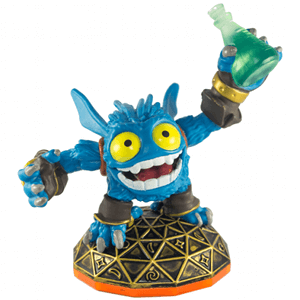
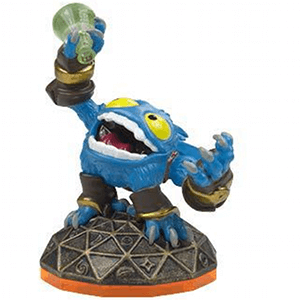
updatew

diff --git a/index.html b/index.html
@@ -268,20 +268,20 @@ const figures = [
 {game:"SG",type:"Core",  elem:"Fire",   name:"Eruptor",          variant:"Series 2",    img:"imgs/2013/02/Eruptor2.png"},
 {game:"SG",type:"Core",  elem:"Fire",   name:"Hot Dog",          variant:null,          img:"imgs/2013/02/HotDog.png"},
 {game:"SG",type:"Core",  elem:"Fire",   name:"Hot Dog",          variant:"Molten",      img:"imgs/2013/03/MoltenHotDog.png"},
-{game:"SG",type:"Core",  elem:"Water",  name:"Gill Grunt",       variant:"Series 2",    img:"imgs/2013/02/GillGrunt2.png"},
+{game:"SG",type:"Core",  elem:"Water",  name:"Gill Grunt",       variant:"Series 2",    img:"imgs/2013/02/GillGrunt1.png"},
 {game:"SG",type:"Core",  elem:"Water",  name:"Chill",            variant:null,          img:"imgs/2013/02/Chill.png"},
 {game:"SG",type:"Core",  elem:"Water",  name:"Chill",            variant:"Legendary",   img:"imgs/2013/02/LegendaryChill.png"},
 {game:"SG",type:"Core",  elem:"Earth",  name:"Bash",             variant:"Series 2",    img:"imgs/2013/02/Bash2.png"},
 {game:"SG",type:"Core",  elem:"Earth",  name:"Flashwing",        variant:null,          img:"imgs/2013/02/Flashwing.png"},
 {game:"SG",type:"Core",  elem:"Earth",  name:"Flashwing",        variant:"Jade",        img:"imgs/2013/03/JadeFlashwing.png"},
-{game:"SG",type:"Core",  elem:"Air",    name:"Lightning Rod",    variant:"Series 2",    img:"imgs/2013/02/LightningRod2-s2.png"},
+{game:"SG",type:"Core",  elem:"Air",    name:"Lightning Rod",    variant:"Series 2",    img:"imgs/2013/02/LightningRod1.png"},
 {game:"SG",type:"Core",  elem:"Air",    name:"Jet-Vac",          variant:null,          img:"imgs/2013/02/JetVac.png"},
 {game:"SG",type:"Core",  elem:"Air",    name:"Jet-Vac",          variant:"Legendary",   img:"imgs/2013/03/LegendaryJetVac.png"},
-{game:"SG",type:"Core",  elem:"Life",   name:"Stealth Elf",      variant:"Series 2",    img:"imgs/2013/02/StealthElf2.png"},
+{game:"SG",type:"Core",  elem:"Life",   name:"Stealth Elf",      variant:"Series 2",    img:"imgs/2013/02/StealthElf1.png"},
 {game:"SG",type:"Core",  elem:"Life",   name:"Shroomboom",       variant:null,          img:"imgs/2013/02/Shroomboom.png"},
-{game:"SG",type:"Core",  elem:"Undead", name:"Chop Chop",        variant:"Series 2",    img:"imgs/2013/02/ChopChop2.png"},
-{game:"SG",type:"Core",  elem:"Undead", name:"Ghost Roaster",    variant:"Series 2",    img:"imgs/2013/02/GhostRoaster2.png"},
-{game:"SG",type:"Core",  elem:"Tech",   name:"Trigger Happy",    variant:"Series 2",    img:"imgs/2013/02/TriggerHappy2-s2.png"},
+{game:"SG",type:"Core",  elem:"Undead", name:"Chop Chop",        variant:"Series 2",    img:"imgs/2014/02/ChopChop.png"},
+{game:"SG",type:"Core",  elem:"Undead", name:"Ghost Roaster",    variant:"Series 2",    img:"imgs/2013/02/GhostRoaster.png"},
+{game:"SG",type:"Core",  elem:"Tech",   name:"Trigger Happy",    variant:"Series 2",    img:"imgs/2013/02/TriggerHappy1.png"},
 {game:"SG",type:"Core",  elem:"Tech",   name:"Sprocket",         variant:null,          img:"imgs/2013/02/Sprocket.png"},
 
 // Giants LightCore
@@ -343,10 +343,10 @@ const figures = [
 
 // SSF S2 reprints (key ones)
 {game:"SSF",type:"Core",  elem:"Magic",  name:"Spyro",           variant:"Series 3",    img:"imgs/2013/02/Spyro2.png"},
-{game:"SSF",type:"Core",  elem:"Fire",   name:"Eruptor",         variant:"Series 3",    img:"imgs/2013/10/Eruptor3.png"},
-{game:"SSF",type:"Core",  elem:"Tech",   name:"Trigger Happy",   variant:"Series 3",    img:"imgs/2013/10/TriggerHappy3.png"},
+{game:"SSF",type:"Core",  elem:"Fire",   name:"Eruptor",         variant:"Series 3",    img:"imgs/2013/02/EruptorLightCore.png"},
+{game:"SSF",type:"Core",  elem:"Tech",   name:"Trigger Happy",   variant:"Series 3",    img:"imgs/2013/02/TriggerHappy1.png"},
 {game:"SSF",type:"Core",  elem:"Life",   name:"Stealth Elf",     variant:"Series 3",    img:"imgs/2013/10/StealthElf3.png"},
-{game:"SSF",type:"Core",  elem:"Undead", name:"Chop Chop",       variant:"Series 3",    img:"imgs/2013/10/ChopChop3.png"},
+{game:"SSF",type:"Core",  elem:"Undead", name:"Chop Chop",       variant:"Series 3",    img:"imgs/2014/02/ChopChop.png"},
 
 // SSF LightCore
 {game:"SSF",type:"LightCore",elem:"Magic",  name:"Pop Fizz",     variant:null,          img:"imgs/2013/02/LightCorePopFizz.png"},
@@ -430,24 +430,24 @@ const figures = [
 {game:"TT",type:"Mini",   elem:"Tech",   name:"Drobit",            variant:null,         img:"imgs/2014/08/Drobit.png"},
 
 // Traps
-{game:"TT",type:"Trap",   elem:"Magic",  name:"Spell Slammer",     variant:null,         img:"imgs/2013/02/TrapMagic.png"},
-{game:"TT",type:"Trap",   elem:"Magic",  name:"Arcane Hourglass",  variant:null,         img:"imgs/2013/02/TrapMagic2.png"},
+{game:"TT",type:"Trap",   elem:"Magic",  name:"Spell Slammer",     variant:null,         img:"imgs/2014/09/MagicRocketTrap.png"},
+{game:"TT",type:"Trap",   elem:"Magic",  name:"Arcane Hourglass",  variant:null,         img:"imgs/2014/10/MagicHourglassTrap.png"},
 {game:"TT",type:"Trap",   elem:"Fire",   name:"Fire Flier",        variant:null,         img:"imgs/2014/08/TrapFire.png"},
 {game:"TT",type:"Trap",   elem:"Fire",   name:"Searing Spinner",   variant:null,         img:"imgs/2013/02/TrapFire2.png"},
-{game:"TT",type:"Trap",   elem:"Water",  name:"Tidal Tiki",        variant:null,         img:"imgs/2014/08/TrapWater.png"},
-{game:"TT",type:"Trap",   elem:"Water",  name:"Wet Walter",        variant:null,         img:"imgs/2014/08/TrapWater2.png"},
-{game:"TT",type:"Trap",   elem:"Earth",  name:"Stone Prison",      variant:null,         img:"imgs/2013/02/TrapEarth.png"},
-{game:"TT",type:"Trap",   elem:"Earth",  name:"Dirt Squirter",     variant:null,         img:"imgs/2013/02/TrapEarth2.png"},
-{game:"TT",type:"Trap",   elem:"Air",    name:"Wind Whipper",      variant:null,         img:"imgs/2013/02/TrapAir.png"},
-{game:"TT",type:"Trap",   elem:"Air",    name:"Cloudy Cobra",      variant:null,         img:"imgs/2013/02/TrapAir2.png"},
-{game:"TT",type:"Trap",   elem:"Life",   name:"Brocco Bell",       variant:null,         img:"imgs/2014/08/TrapLife.png"},
-{game:"TT",type:"Trap",   elem:"Life",   name:"Pepper Jack",       variant:null,         img:"imgs/2013/02/TrapLife2.png"},
-{game:"TT",type:"Trap",   elem:"Undead", name:"Creepy Caber",      variant:null,         img:"imgs/2013/02/TrapUndead.png"},
-{game:"TT",type:"Trap",   elem:"Undead", name:"Bubbling Cauldron", variant:null,         img:"imgs/2013/02/TrapUndead2.png"},
-{game:"TT",type:"Trap",   elem:"Tech",   name:"Automatic Angel",   variant:null,         img:"imgs/2013/02/TrapTech.png"},
-{game:"TT",type:"Trap",   elem:"Tech",   name:"Grabbing Gadget",   variant:null,         img:"imgs/2013/02/TrapTech2.png"},
-{game:"TT",type:"Trap",   elem:"Light",  name:"Blinding Beacon",   variant:null,         img:"imgs/2013/02/TrapLight.png"},
-{game:"TT",type:"Trap",   elem:"Dark",   name:"Phantom Pirate",    variant:null,         img:"imgs/2014/08/TrapDark.png"},
+{game:"TT",type:"Trap",   elem:"Water",  name:"Tidal Tiki",        variant:null,         img:"imgs/2014/09/WaterTikiTrap.png"},
+{game:"TT",type:"Trap",   elem:"Water",  name:"Wet Walter",        variant:null,         img:"imgs/2014/09/WaterLogHolderTrap1.png"},
+{game:"TT",type:"Trap",   elem:"Earth",  name:"Stone Prison",      variant:null,         img:"imgs/2014/09/EarthHammerTrap1.png"},
+{game:"TT",type:"Trap",   elem:"Earth",  name:"Dirt Squirter",     variant:null,         img:"imgs/2014/09/EarthTotemTrap.png"},
+{game:"TT",type:"Trap",   elem:"Air",    name:"Wind Whipper",      variant:null,         img:"imgs/2014/09/AirJugheadTrap1.png"},
+{game:"TT",type:"Trap",   elem:"Air",    name:"Cloudy Cobra",      variant:null,         img:"imgs/2014/09/AirSwordTrap.png"},
+{game:"TT",type:"Trap",   elem:"Life",   name:"Brocco Bell",       variant:null,         img:"imgs/2014/09/LifeSnakeTrap.png"},
+{game:"TT",type:"Trap",   elem:"Life",   name:"Pepper Jack",       variant:null,         img:"imgs/2014/09/LifeSwordTrap.png"},
+{game:"TT",type:"Trap",   elem:"Undead", name:"Creepy Caber",      variant:null,         img:"imgs/2014/09/UndeadAxeTrap1.png"},
+{game:"TT",type:"Trap",   elem:"Undead", name:"Bubbling Cauldron", variant:null,         img:"imgs/2014/09/UndeadOrbTrap1.png"},
+{game:"TT",type:"Trap",   elem:"Tech",   name:"Automatic Angel",   variant:null,         img:"imgs/2014/09/TechAngelTrap.png"},
+{game:"TT",type:"Trap",   elem:"Tech",   name:"Grabbing Gadget",   variant:null,         img:"imgs/2014/09/TechHandTrap.png"},
+{game:"TT",type:"Trap",   elem:"Light",  name:"Blinding Beacon",   variant:null,         img:"imgs/2014/10/LightRocketTrap1.png"},
+{game:"TT",type:"Trap",   elem:"Dark",   name:"Phantom Pirate",    variant:null,         img:"imgs/2014/10/DarkSwordTrap.png"},
 {game:"TT",type:"Trap",   elem:"Magic",  name:"Kaos Trap",         variant:"Legendary",  img:"imgs/2014/09/KaosTrap.png"},
 {game:"TT",type:"Trap",   elem:"Life",   name:"Hand of Fate",      variant:"Golden",     img:"imgs/2014/09/HandOfFate1.png"},
 
@@ -498,7 +498,7 @@ const figures = [
 {game:"SC",type:"Vehicle",elem:"Undead",name:"Tomb Buggy",         variant:null,        img:"imgs/2015/09/TombBuggy.png"},
 {game:"SC",type:"Vehicle",elem:"Tech",  name:"Shield Striker",       variant:"Vehicle",  img:"imgs/2015/11/PatinaShieldStriker.png"},
 {game:"SC",type:"Vehicle",elem:"Tech",  name:"Clown Cruiser Dark", variant:"Nintendo",  img:"imgs/2015/07/DarkClownCruiser-300.png"},
-{game:"SC",type:"Vehicle",elem:"Magic", name:"Sun Runner (plane)", variant:null,        img:"imgs/2015/07/SunRunner.png"},
+{game:"SC",type:"Vehicle",elem:"Magic", name:"Sun Runner (Vehicle)", variant:null,        img:"imgs/2015/07/SunRunner.png"},
 {game:"SC",type:"Vehicle",elem:"Magic", name:"Stealth Stinger",    variant:null,        img:"imgs/2015/09/StealthStinger.png"},
 
 // SC Racing Trophies (Gold)
